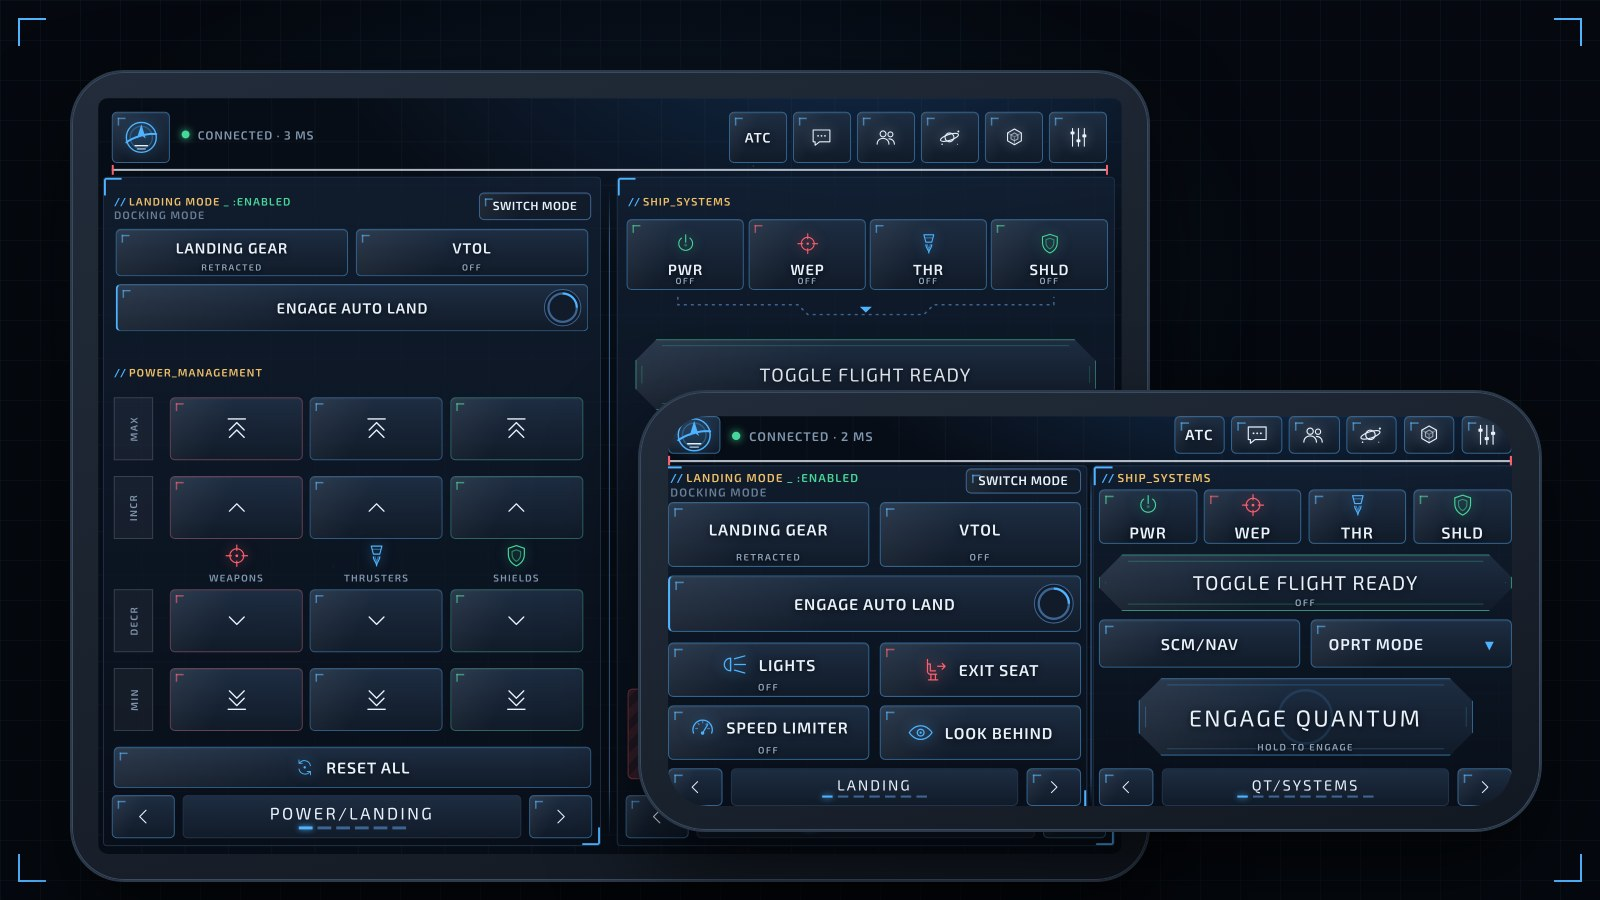
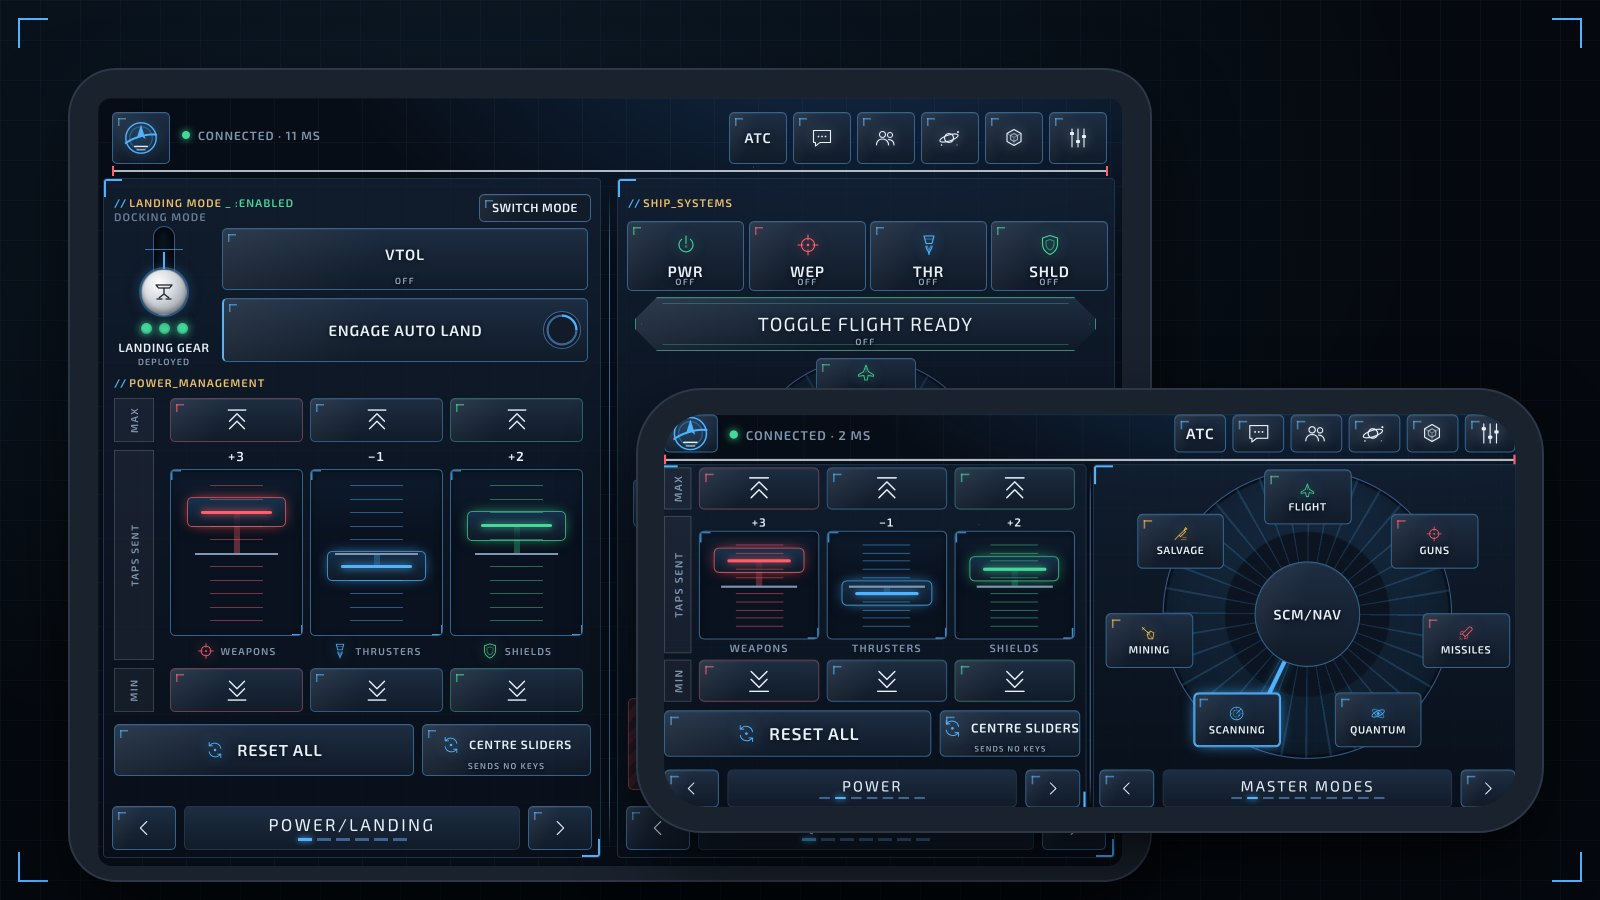
Show the 2.0 cockpit controls on the website and in the README
A new section and feature card for the gear lever, power sliders, fader and
mode dial, with a picture of them in four makers' styles (docs/controls.jpg).
The hero picture and theme gallery are retaken with the new HUD at the same
sizes. The download buttons already fetch SpoolUp-Setup-*.exe from the latest
xattribution/tablet-deck-spooned release.

Claude-Session: https://claude.ai/code/session_01SQ9wwRmoeXnyjC52PRNx5s

diff --git a/site/index.html b/site/index.html
@@ -4,7 +4,7 @@
 <meta charset="utf-8">
 <meta name="viewport" content="width=device-width, initial-scale=1">
 <title>SpoolUp: a touch control deck for Star Citizen</title>
-<meta name="description" content="Turn any tablet or phone into a touch control panel for Star Citizen. HUD buttons, voice commands, a layout editor and 12 manufacturer themes. Free Windows app, no account. Fan project.">
+<meta name="description" content="Turn any tablet or phone into a touch control panel for Star Citizen. HUD buttons, a gear lever, power sliders and a mode dial, voice commands, a layout editor and 12 manufacturer themes. Free Windows app, no account. Fan project.">
 <meta property="og:title" content="SpoolUp: a touch control deck for Star Citizen">
 <meta property="og:description" content="Turn any tablet or phone into a touch control panel for Star Citizen. Free, open source, no account.">
 <meta property="og:image" content="https://xattribution.github.io/tablet-deck-spooned/img/banner.jpg">
@@ -34,7 +34,7 @@
     <div class="hero-text">
       <p class="kicker">// STAR CITIZEN CONTROL DECK</p>
       <h1>Your tablet becomes<br>a <span>flight deck</span>.</h1>
-      <p class="lead">A HUD-style button deck in your tablet's or phone's browser. Every button presses real keys on your gaming PC: landing gear, quantum, shields, power, mining and more.</p>
+      <p class="lead">A HUD-style button deck in your tablet's or phone's browser. Every button presses real keys on your gaming PC: landing gear, quantum, shields, power, mining and more. New in 2.0: a gear lever, power sliders and a mode dial, drawn by each maker.</p>
       <div class="cta">
         <a class="btn primary js-download" href="https://github.com/xattribution/tablet-deck-spooned/releases/latest">
           <span class="ico" aria-hidden="true">⬇</span>
@@ -57,8 +57,9 @@
     <h2>Everything at your fingertips</h2>
     <div class="cards">
       <article class="card"><span class="icon js-icon" data-icon="ship"></span><h3>A HUD for your tablet</h3><p>Landing, power management, quantum, operator modes, shields, targeting, salvage, mining, doors, comms and emotes, on a two-half HUD that pages through panels. Phones get their own layout. In English, Español, Français or Deutsch.</p></article>
+      <article class="card"><span class="icon js-icon" data-icon="gear"></span><h3>Cockpit controls</h3><p>Pull a landing-gear lever and watch its three lamps go from red to green. Drag the Weapons, Thrusters and Shields sliders, the speed-range fader, and turn the operator-mode dial. Each step is one key press, at most five per drag. Drag the seam to make one half of the HUD wider.</p></article>
       <article class="card"><span class="icon js-icon" data-icon="mic"></span><h3>Hold-to-talk voice</h3><p>"Landing gear", "engage quantum", "shields up". Hold the mic button and speak. Windows' built-in speech recognition, offline.</p></article>
-      <article class="card"><span class="icon js-icon" data-icon="sliders"></span><h3>12 manufacturer themes</h3><p>RSI, Drake, Aegis, Anvil, Origin, MISC, Crusader, Banu, Aopoa, Argo, Consolidated Outland and Esperia, each its own design: Drake's riveted hazard plates, Origin's cream and black gloss, Argo's yellow work panels, Banu's lacquer on wood, and matching Stream Deck keys. With press animations, HUD sounds (on the tablet or in your headset), a night mode, large text and high contrast.</p></article>
+      <article class="card"><span class="icon js-icon" data-icon="sliders"></span><h3>12 manufacturer themes</h3><p>RSI, Drake, Aegis, Anvil, Origin, MISC, Crusader, Banu, Aopoa, Argo, Consolidated Outland and Esperia, each its own design down to the levers, sliders and dials: Drake's riveted hazard plates, Origin's cream and black gloss, Argo's yellow work panels, Banu's lacquer on wood, and matching Stream Deck keys. With press animations, HUD sounds (on the tablet or in your headset), a night mode, large text and high contrast.</p></article>
       <article class="card"><span class="icon js-icon" data-icon="grid"></span><h3>Layout editor</h3><p>Drag buttons around and change their keys, labels, icons and animations. Share layouts as files, or pick a starter layout for Combat, Mining &amp; Salvage, Hauling &amp; Exploration, the Prospector or the Vulture.</p></article>
       <article class="card"><span class="icon js-icon" data-icon="swap"></span><h3>Follows your keybinds</h3><p>Reads your Star Citizen keybinds, so rebinding in-game moves the button with it. An optional profile covers actions with no default key.</p></article>
       <article class="card"><span class="icon js-icon" data-icon="power"></span><h3>A proper Windows app</h3><p>One installer. A window with the QR code, a tray icon, settings, start with Windows, and updates with one click.</p></article>
@@ -73,6 +74,13 @@
       <p>It runs in the browser, so there's nothing to install on the tablet. Scan the QR code, add it to your home screen, and it opens full screen like an app. The screen stays awake mid-flight.</p>
     </div>
     <img src="img/hero.jpg" alt="The deck on an iPad and an iPhone" loading="lazy">
+  </section>
+
+  <section class="block">
+    <p class="kicker">// NEW IN 2.0</p>
+    <h2>Levers, sliders and a dial</h2>
+    <p class="lead-in">From the "Tablet Deck 2" design: hardware-style controls in every maker's style, from Drake's riveted hazard lever to Origin's cream knobs and Anvil's knurled dial. SpoolUp can't read the game, so the sliders show the steps it sent, and Centre sliders resets them without pressing anything.</p>
+    <img class="wide" src="img/controls.jpg" alt="The gear lever, power sliders and operator-mode dial in the Drake, Origin, Anvil and Esperia themes" loading="lazy">
   </section>
 
   <section class="block">
@@ -117,7 +125,7 @@
     <p class="kicker">// FAQ</p>
     <h2>Questions</h2>
     <details><summary>Is it free?</summary><p>Yes, completely, and the source is on GitHub under the MIT license. It's a fan project, and there's no paid version.</p></details>
-    <details><summary>Is it a macro tool? Is it allowed?</summary><p>It presses ordinary keyboard keys, one press per tap, like a second keyboard. No automation or macros, and it doesn't touch the game's files or memory. Keys only go through while Star Citizen is the window in front.</p></details>
+    <details><summary>Is it a macro tool? Is it allowed?</summary><p>It presses ordinary keyboard keys, one press per tap, like a second keyboard. A slider step, a lever pull or a dial turn is one press too. No automation or macros, and it doesn't touch the game's files or memory. Keys only go through while Star Citizen is the window in front.</p></details>
     <details><summary>Windows says "Windows protected your PC". Is it safe?</summary><p>From 1.8.0 the installer is code-signed, so Windows shows its publisher. A brand-new release can still get this warning until enough people have downloaded it, and earlier releases aren't signed: click <b>More info</b>, then <b>Run anyway</b>. Every release lists the installer's checksum, and all the code is public on GitHub.</p></details>
     <details><summary>What do I need?</summary><p>Windows 10 or 11 on the gaming PC, and a tablet or phone with a browser on the same Wi-Fi or network. The voice commands need the English speech recognizer that comes with Windows.</p></details>
     <details><summary>Does it work on a Mac or Linux PC?</summary><p>Not yet: the part that presses keys is Windows-only. The tablet can be anything with a browser.</p></details>

diff --git a/site/style.css b/site/style.css
@@ -89,6 +89,7 @@ h3 { font-size: 20px; }
 .split.reverse > div { order: 2; }
 .split img, .wide { border-radius: 14px; border: 1px solid var(--line); box-shadow: 0 20px 60px rgba(0,0,0,.5); }
 .wide { margin-top: 22px; }
+.lead-in { max-width: 760px; color: var(--dim); margin: 0; }
 .split p { color: #c5d3e2; }
 
 .steps { list-style: none; counter-reset: step; padding: 0; margin: 26px 0 0; display: grid; grid-template-columns: repeat(3, 1fr); gap: 18px; }

diff --git a/README.md b/README.md
@@ -47,7 +47,9 @@
 ### 🛸 A HUD for your tablet
 Landing, power management, quantum, operator modes, shields, targeting,
 salvage, mining, doors, comms, emotes and more, on a two-half HUD that pages through
-panels. Phones get their own layout. In English, Español, Français or Deutsch.
+panels. Cockpit controls from 2.0: a landing-gear lever with three lamps, power
+sliders, a speed-range fader and an operator-mode dial, and halves you can
+resize. Phones get their own layout. In English, Español, Français or Deutsch.
 
 </td>
 <td width="50%" valign="top">
@@ -310,6 +312,38 @@ Hold the phone sideways. Layouts you make in the editor show up in the list too.
 sideways with two fingers over a half to flip it to its next or previous panel,
 like its arrows. So a swipe never presses anything, a press then waits a moment
 (60 ms) in case a second finger follows; with it off, presses are instant.
+
+### Cockpit controls
+
+<p align="center">
+  <img src="docs/controls.jpg" alt="The gear lever, power sliders and operator-mode dial in the Drake, Origin, Anvil and Esperia themes" width="100%">
+</p>
+
+Some controls are drawn like hardware, in each maker's own style. Each one
+still presses one key at a time, through the same focus check as a button:
+
+- **Landing-gear lever** (Power/Landing): pull the knob down to deploy, push it
+  up to retract. Each pull or push taps the gear key once. The three lamps
+  blink red while the gear is in transit and turn green when it's down; like
+  the lit buttons, they follow what SpoolUp pressed.
+- **Power sliders** (Power/Landing): Weapons, Thrusters and Shields. Drag a
+  knob up or down: each step taps that system's up or down key once, at most
+  five per drag. Tap the track beside the knob for a single step. Max and Min
+  sit above and below. The sliders count the steps SpoolUp sent from the
+  centre (it can't read the game), so **Centre sliders** puts them back in
+  the middle without pressing anything; Max, Min and **Reset All** move them
+  too.
+- **Speed-range fader** (Flight Assist): the same, lying down, for Speed
+  Range + and −.
+- **Operator-mode dial** (QT/Systems; its own **Master Modes** panel on
+  phones): turn the needle to a mode and let go, or tap the mode. SCM/NAV is
+  the button in the middle.
+- **Resize the halves:** **Deck settings → Edit layout** unlocks the seam
+  between the two halves. Drag it to make one wider, then **Lock**; **Reset**
+  puts it back. Each tablet keeps its own, and nothing presses while it's
+  unlocked.
+
+The sliders, fader and lever work with a keyboard too (arrow keys, Enter).
 
 ### Lit buttons
 
